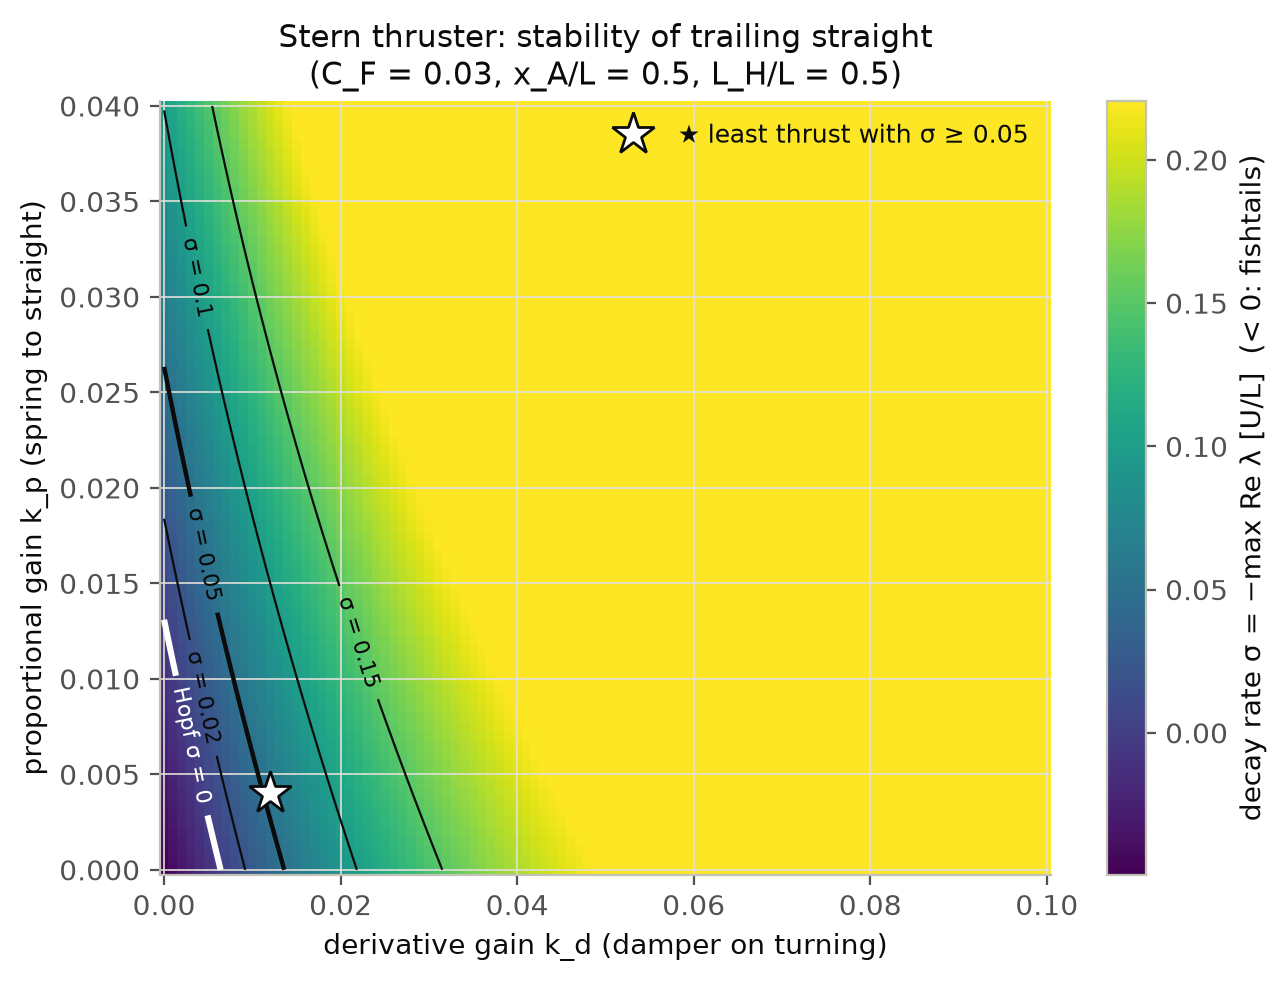
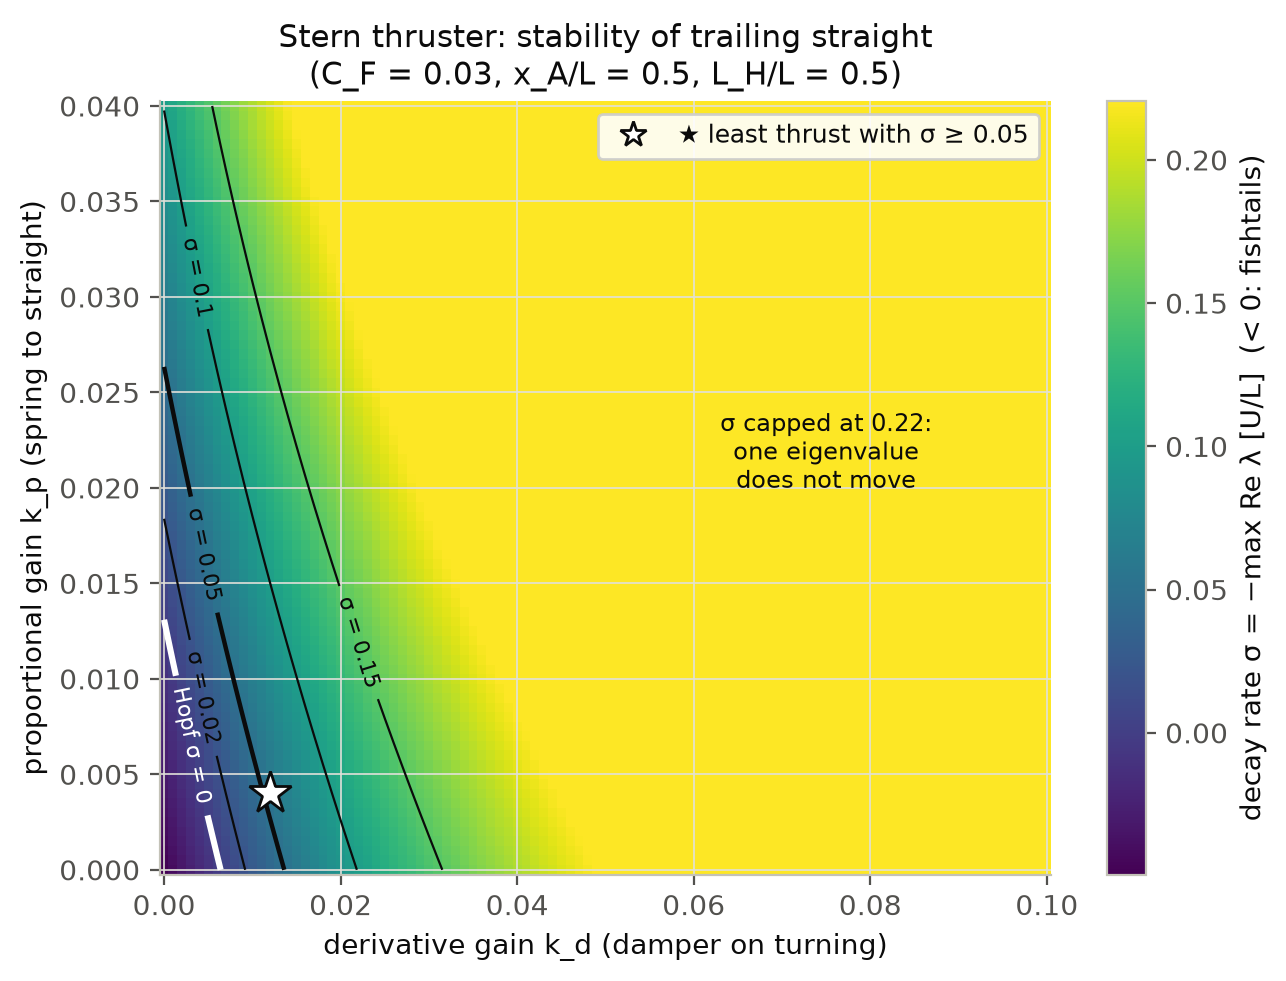
E08: redraw fig03 and fig07 labels for the report
- fig03: star legend entry no longer looks like a second marker
- fig07: x markers where the thruster removes fishtailing, one shared
  real-ship label, legend moved off the tug curve
- progress summary: E08 re-run done, report is ~5 pages

Changed region(s): [[0.4666, 0.0917, 0.8087, 0.1835], [0.5599, 0.4281, 0.7154, 0.5199]]

diff --git a/experiments/E08_control/run.py b/experiments/E08_control/run.py
@@ -274,16 +274,17 @@ def fig07(summary, star):
             ax.annotate("×: no fishtailing at any C_F ≥ 0.0001", (L_H[none][0], 0.0008), xytext=(10, 18),
                         textcoords="offset points", color=INK_2, fontsize=8.5)
         out[name] = [None if np.isnan(v) else round(float(v), 5) for v in curve]
-    for U in (0.5, 1.0, 2.0):
+    for U in (0.5, 1.0, 2.0):  # the three lines are close together, so they share one label
         cf = hydro.friction_coefficient(U, HULL, SEA_WATER)
         ax.axhline(cf, color=MUTED, lw=0.8, ls=":")
-        ax.text(1.5, cf, f" real ship {U} m/s", va="center", fontsize=8, color=INK_2)
+    ax.annotate("real ship at 0.5, 1, 2 m/s\n(dotted, top to bottom)", (1.5, cf), xytext=(0, 14),
+                textcoords="offset points", ha="right", fontsize=8, color=INK_2)
     ax.set_xlabel("hawser length L_H / L")
     ax.set_ylabel("Hopf friction coefficient C_F (fishtails below the line)")
     ax.set_title("Fishtailing boundary with and without control\n(x_A/L = 0.5; gains and tug ratio fixed in "
                  "non-dimensional form)")
     ax.set_ylim(0, None)
-    ax.legend(loc="center right")
+    ax.legend(loc="upper right", bbox_to_anchor=(1.0, 0.86))  # in the gap between the blue and orange curves
     fig.tight_layout()
     save(fig, EXP, "fig07_stability_map")
     summary["fig07"] = {"L_H_L": L_H.round(4).tolist(), **out}

diff --git a/notes/progress_summary.md b/notes/progress_summary.md
@@ -122,11 +122,11 @@ T = 10 580 kN · strain^1.86 (D25). Stiff rope reproduces the rigid eigenvalues.
 
 ## Next steps
 1. **Student to check:** σ_min = 0.05 (D31), the Tug and Thruster tabs, D28 (wind at midship or aft? issue 24).
-2. **Re-run E08** (`$PY -m experiments.E08_control.run`, ~20 min): only to redraw the labels of fig03 (★ legend) and
-   fig07 (× = no fishtailing at any C_F); the fixes are already in `run.py`, the numbers do not change. Stopped
-   on 2026-11-02 at the student's request after fig02; summary.json and all figures from the first run are intact.
+2. ~~Re-run E08~~ **done 2026-11-03**: full re-run (numbers unchanged); fig03 legend ★ fixed, fig07 now shows the
+   × markers, one shared "real ship" label and the legend moved off the tug curve (fig07 redrawn on its own).
 3. **Optional:** cited thrust / tug values (issue 25) to replace the PLACEHOLDERs.
-4. **Report and slides** (step 10). Step 9 (forcing) stays cut unless time is left over.
+4. **Report and slides** (step 10). **Report is only ~5 pages with pictures** (student, 2026-11-03): pick ~5–6 key
+   figures. Step 9 (forcing) stays cut.
 5. Optional: open issue 22.
 
 ## How to run things (from the project root)
